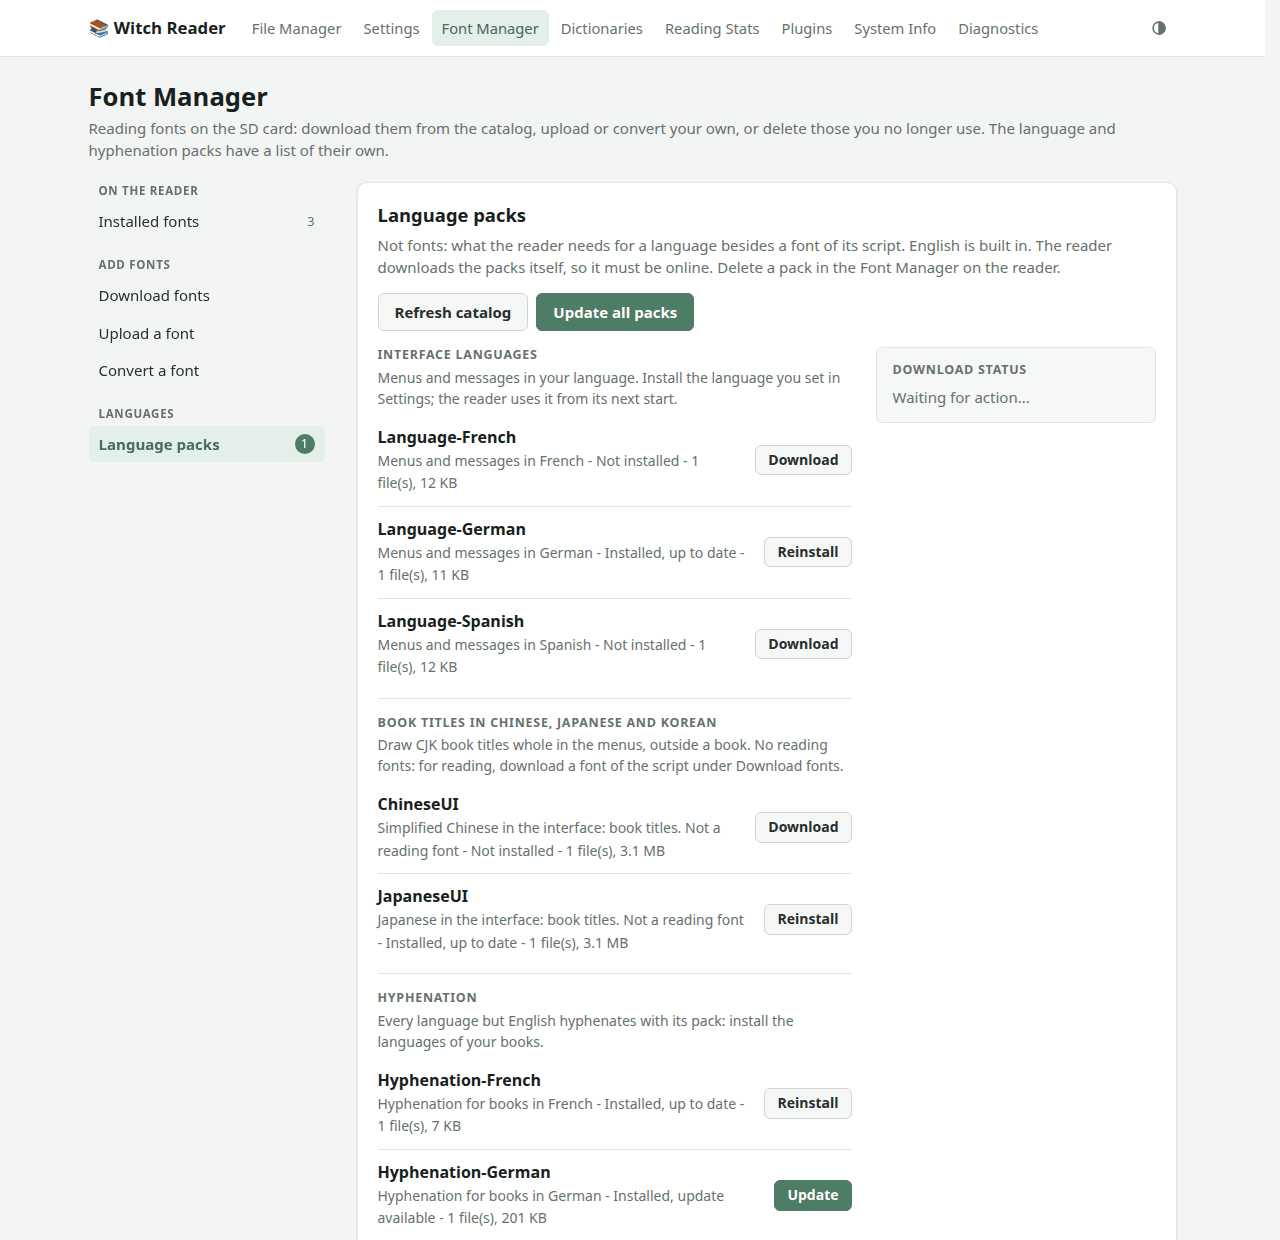
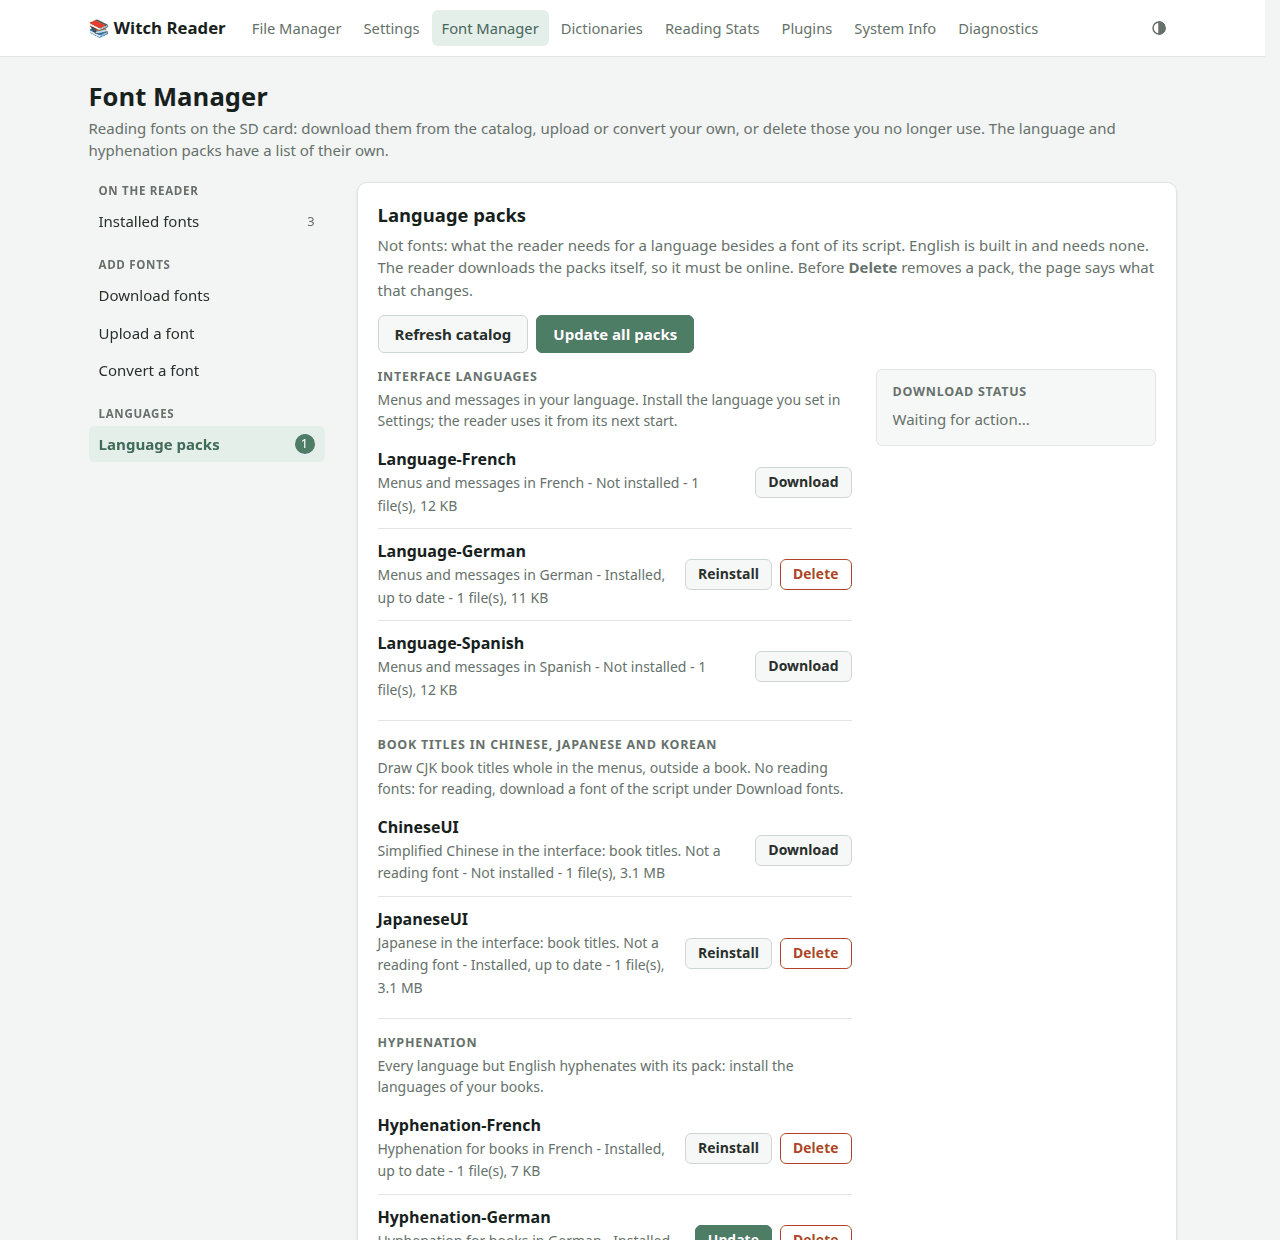
docs(web): deleting a pack in the web Font Manager
The Web Interface Guide's Language packs part says Delete removes a pack as
the reader does, and what each kind's deletion changes; the endpoint reference
gives delete's "pack" and the manifest's inUse; the user guide's language and
hyphenation pack notes name the web Delete beside the reader's. The packs
screenshot shows Delete.

Changed region(s): [[0.2812, 0.1839, 0.9062, 1.0], [0.6875, 0.2758, 0.8125, 0.3677], [0.5938, 0.3677, 0.6562, 0.3984]]

diff --git a/docs/webserver-endpoints.md b/docs/webserver-endpoints.md
@@ -734,17 +734,21 @@ from the font server over TLS.
 | Method | Path                  | Request                                                 | Response                                                                 |
 | ------ | --------------------- | ------------------------------------------------------- | ------------------------------------------------------------------------ |
 | GET    | `/api/fonts`          | -                                                       | `{"families":[{"name","outline","sizes":[pt...],"files":[{"name","size"}]}],"maxFamilies":N}` |
-| GET    | `/api/fonts/manifest` | -                                                       | `{"ok":true,"baseUrl","families":[{"name","description","installed","hasUpdate","ownFiles","hyphenation","language","interfacePack","totalSize","fileCount"}]}` |
+| GET    | `/api/fonts/manifest` | -                                                       | `{"ok":true,"baseUrl","families":[{"name","description","installed","hasUpdate","ownFiles","hyphenation","language","interfacePack","inUse","totalSize","fileCount"}]}` |
 | POST   | `/api/fonts/download` | `{"family":"Name"}`, or `{"all":true}` with an optional `"list":"fonts"` or `"packs"` | `{"ok":true,"installedCount":N,"notListed":["Name",...]}` |
 | POST   | `/api/fonts/upload`   | multipart: one `.ttf`, `.otf` or `.cpfont` file; `?family=Name` in the URL | `{"ok":true,"listed":true}`                         |
-| POST   | `/api/fonts/delete`   | `{"family":"Name"}`                                     | `{"ok":true}`                                                            |
+| POST   | `/api/fonts/delete`   | `{"family":"Name"}`, or `{"family":"Name","pack":true}` for a language or hyphenation pack | `{"ok":true}`                    |
 
 Notes:
 - `/api/fonts` rescans the SD card first. `maxFamilies` is the registry's limit on installed SD families.
 - `/api/fonts` marks an outline (TrueType or OpenType) family with `"outline":true`; its `sizes` are empty.
 - `manifest` marks a hyphenation pack `"hyphenation":true`, an interface language pack `"language":true` and a
   CJK interface pack (ChineseUI and the like) `"interfacePack":true`; the Font Manager page lists these three
-  under Language packs, apart from the fonts.
+  under Language packs, apart from the fonts. `inUse` marks an installed pack the interface language uses (its
+  strings, its hyphenation pack or its CJK interface pack).
+- `delete` with `"pack":true` deletes a language or hyphenation pack as the reader's Font Manager does: the device
+  fetches the manifest (so it must be online), finds the pack and removes its files. A CJK interface pack is a font
+  folder and goes without `pack`.
 - `download` with `all` installs every missing family the manifest puts in Download all, and every update;
   with `"list":"fonts"`, only those that are no pack; with `"list":"packs"`, only the updates of the installed packs
   (the three kinds above), no missing one. With `family`, that one (the CJK families are installed one at a
@@ -776,6 +780,7 @@ Notes:
 | 400    | `{"ok":false,"error":"Missing family"}`                 | `download` with neither `family` nor `all` |
 | 400    | `{"ok":false,"error":"<reason>"}`                       | `upload` refused: the family or file name, the folder's other kind of font, the card's room, the file's start, a font the engine cannot draw, or a write |
 | 400    | `{"error":"Invalid request"}`                           | `delete` body has no `family`              |
+| 404    | `{"ok":false,"error":"Pack not found in manifest"}`     | `delete` with `pack` of no pack the manifest lists |
 | 404    | `{"ok":false,"error":"Family not found in manifest"}`   | `download` of an unknown family            |
 | 500    | `{"ok":false,"error":"<message>"}`                      | Manifest fetch or install failed; install failures also carry `family` and `installedCount` |
 | 500    | `{"ok":false,"error":"Out of memory"}`                  | `download` could not build its list        |

diff --git a/USER_GUIDE.md b/USER_GUIDE.md
@@ -850,7 +850,7 @@ the firmware keeps its room for everything else. A pack you do not install costs
 * **Updating from 2.40 or 2.41RC** keeps your interface language without a download: on the first start the reader writes
   the language it kept in its memory to the card as its pack. Chinese, Japanese and Korean, which only 2.41RC had, are
   downloaded once.
-* **Removing a pack** in the Font Manager makes the interface English from the next start.
+* **Removing a pack** in the Font Manager, or with **Delete** under Language packs in the web interface's Font Manager, makes the interface English from the next start.
 
 #### Hyphenation packs
 
@@ -874,7 +874,7 @@ the firmware keeps its room for everything else. A pack you do not install costs
   book that needs it ("Preparing hyphenation...", about a second for German, once). The X4 Pro, T5 S3 and Murphy M3 read
   it into memory when the book opens.
 * **Indic languages** break a line between two syllables of a word, without a hyphen.
-* **Removing a pack** in the Font Manager stops hyphenating that language's books.
+* **Removing a pack** in the Font Manager, or with **Delete** under Language packs in the web interface's Font Manager, stops hyphenating that language's books.
 * **Updating from 2.40 or earlier**, which had German, French, Spanish, Italian, Portuguese, Polish, Swedish, Russian and
   Ukrainian built in: their books are laid out once more, and are hyphenated again once their pack is installed.
 

diff --git a/docs/webserver.md b/docs/webserver.md
@@ -352,7 +352,10 @@ a font of its script, in three groups. English needs none of them.
 
 **Download** installs a pack, and the number beside **Language packs** in the menu counts the packs with
 an update. **Update all packs** updates the packs you have, but fetches no missing one: install the
-languages you need from their rows. A pack is deleted in the Font Manager on the reader.
+languages you need from their rows. **Delete** removes an installed pack, as the Font Manager on the reader
+does; it first says what that changes. Without the interface language's own pack the menus are English from
+the reader's next start; without a hyphenation pack its language's books are no longer hyphenated; without a
+title pack, CJK book titles outside a book show boxes for the characters the menu fonts lack.
 
 ## 8. Dictionaries
 
